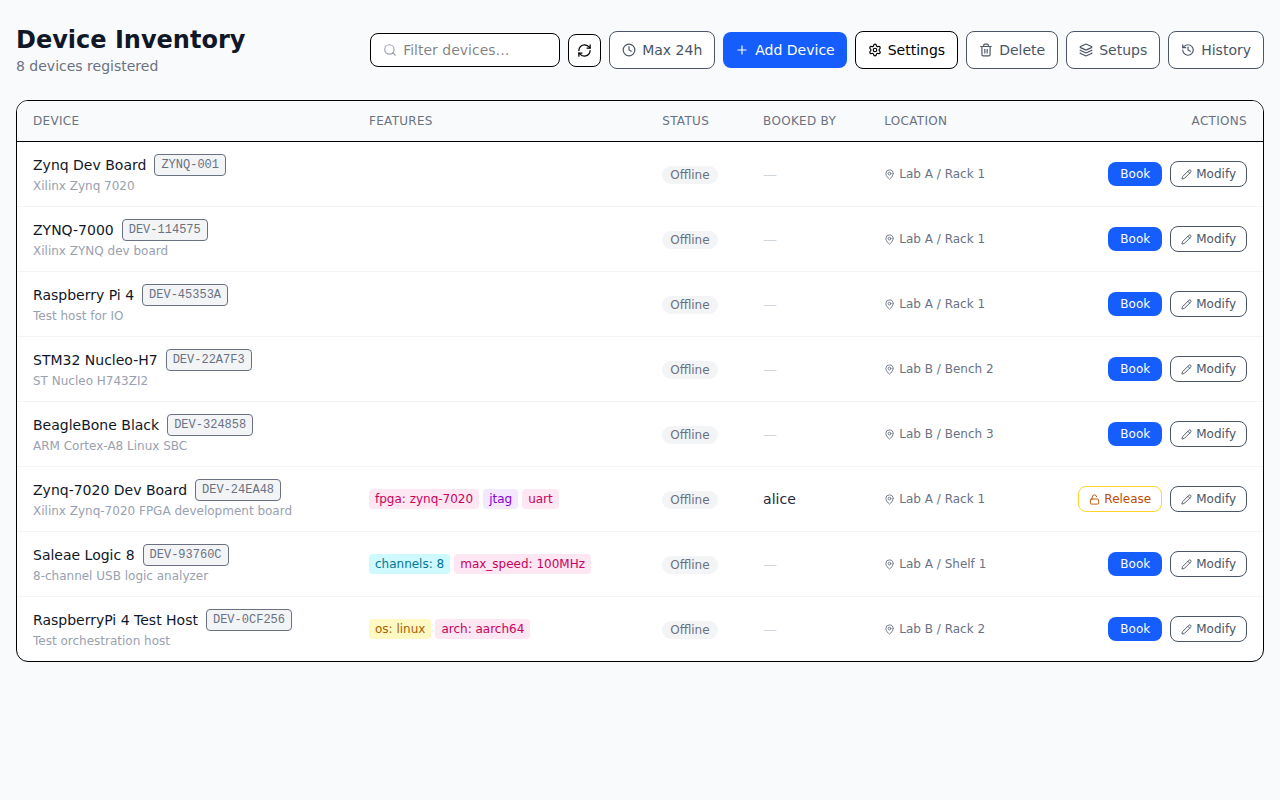
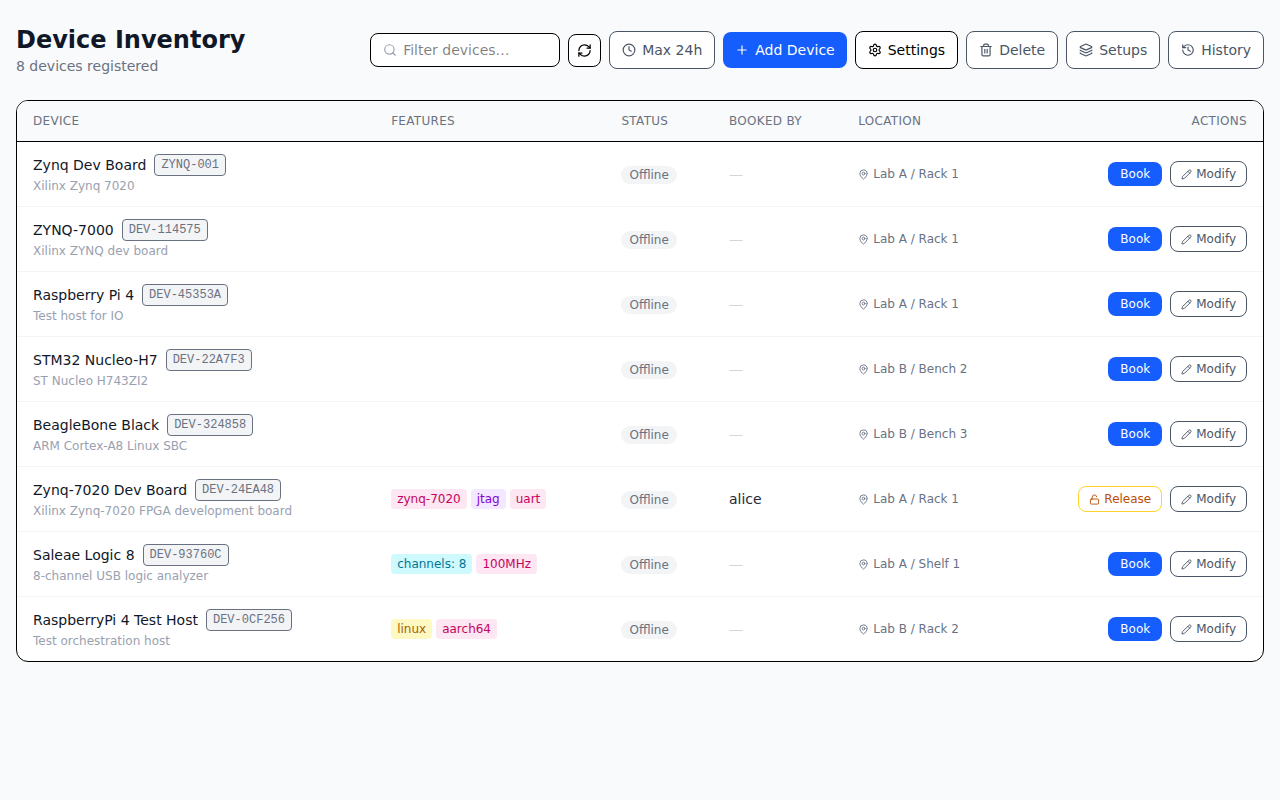
Smarter feature tag labels: show value-only for string features
Formatting rules:
- boolean true  → key only          ("jtag")
- boolean false → "key: false"
- numeric value → "key: value"      ("channels: 8")
- string value  → value only        ("zynq-7020", "linux", "100MHz")

https://claude.ai/code/session_01GABJSn9qP5pQbQ7Q7k4QpR

diff --git a/frontend/src/pages/InventoryPage.tsx b/frontend/src/pages/InventoryPage.tsx
@@ -58,6 +58,14 @@ function tagColor(key: string): string {
   return TAG_COLORS[hash % TAG_COLORS.length];
 }
 
+function formatTag(k: string, v: unknown): string {
+  if (v === true || v === 'true') return k;
+  if (v === false || v === 'false') return `${k}: false`;
+  const s = String(v);
+  if (/^-?\d+(\.\d+)?$/.test(s)) return `${k}: ${s}`;
+  return s; // plain string value — show value only
+}
+
 const FIELD_BASIC: [string, keyof DeviceCreate][] = [
   ['Name', 'name'],
   ['Serial Number', 'serial_number'],
@@ -929,7 +937,7 @@ export default function InventoryPage() {
                       <div className="flex flex-wrap gap-1">
                         {Object.entries(d.features).map(([k, v]) => (
                           <span key={k} className={`px-1.5 py-0.5 text-xs rounded font-medium ${tagColor(k)}`}>
-                            {v === true || v === 'true' ? k : `${k}: ${String(v)}`}
+                            {formatTag(k, v)}
                           </span>
                         ))}
                       </div>
